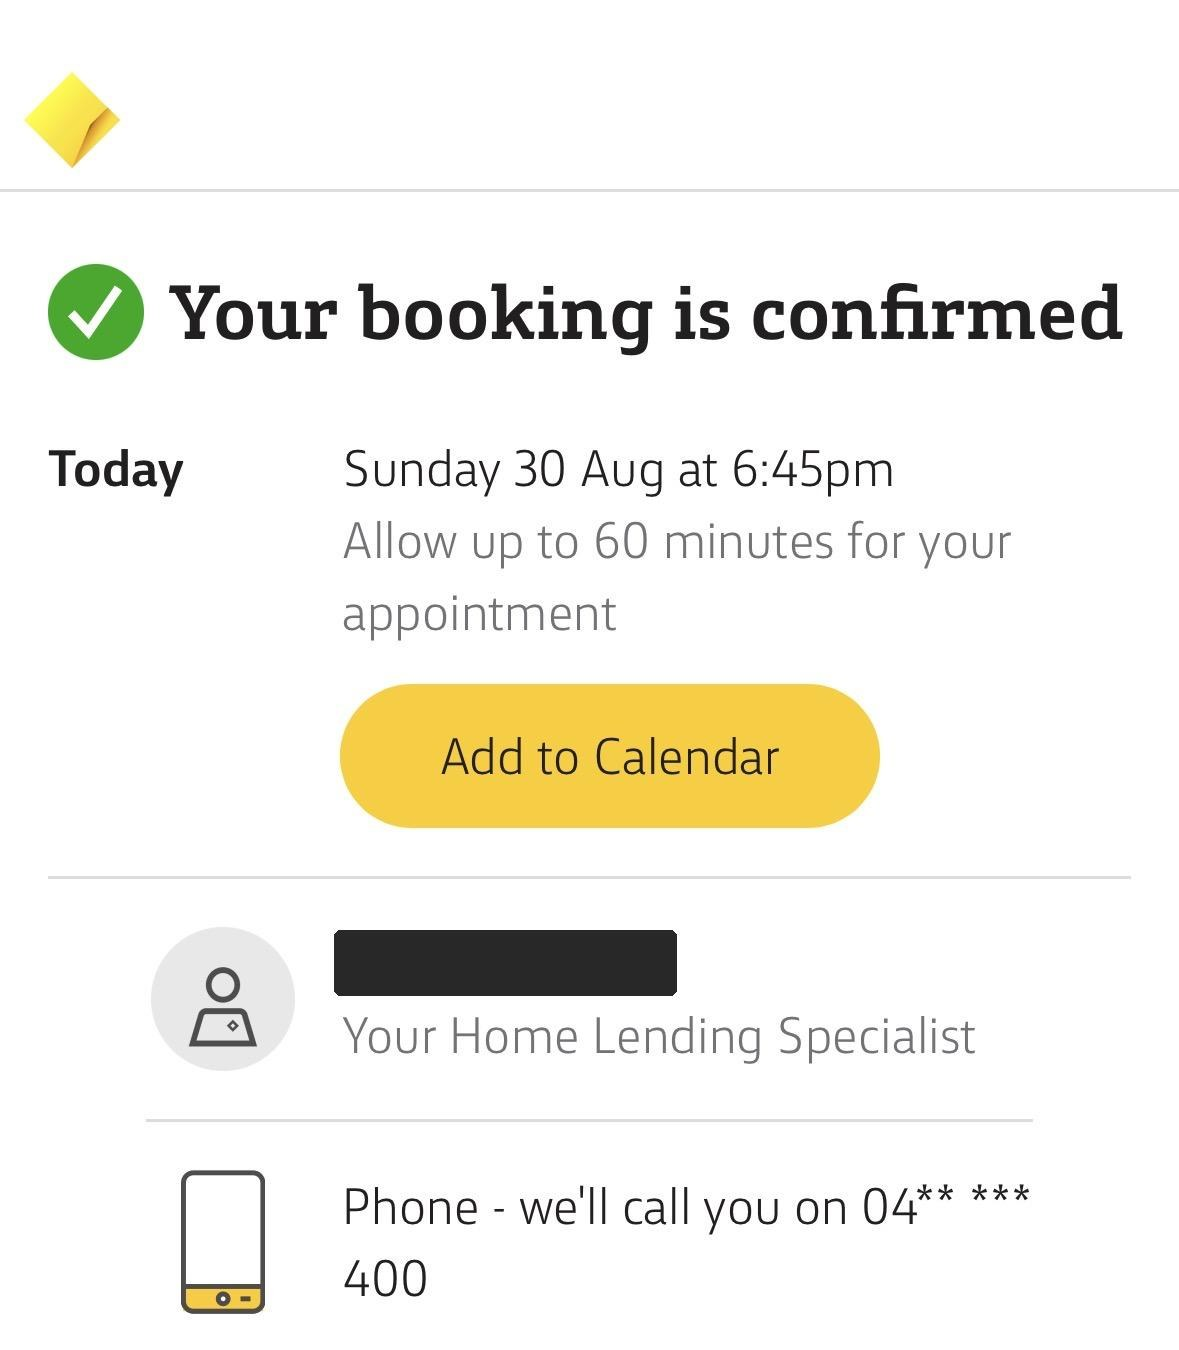
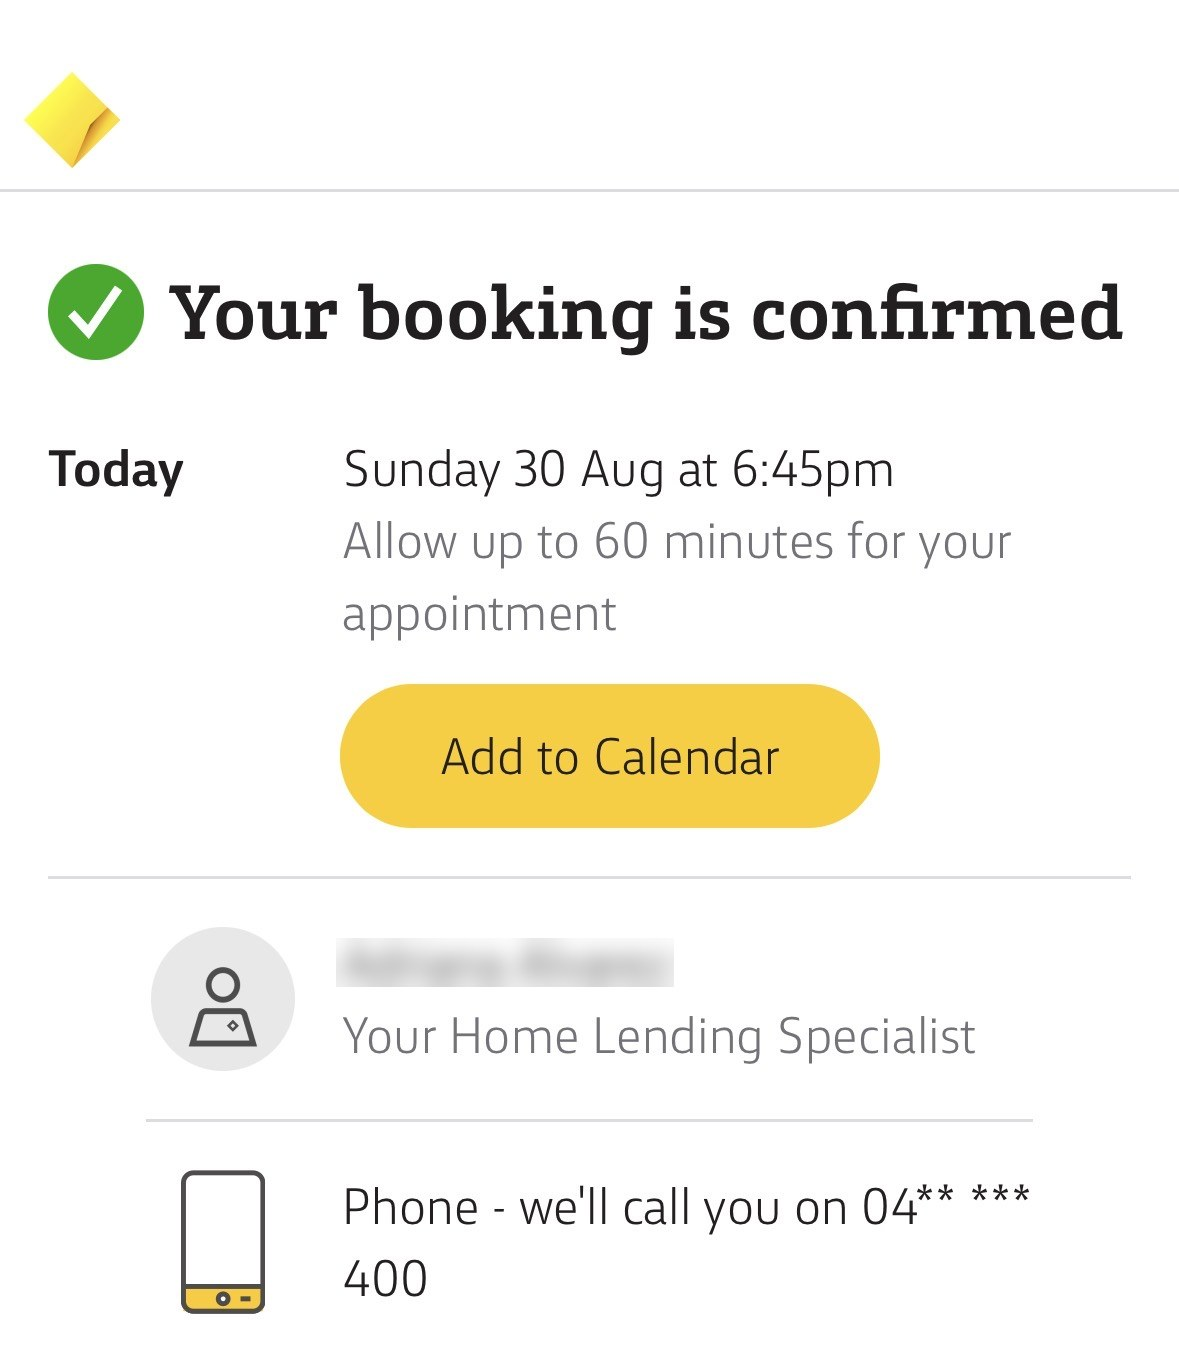
Switch specialist-name masking from a black box to a subtle blur
Replaced the solid redaction on the CommBank appointment confirmation
screenshot with a Gaussian blur applied only to the specialist's
name, the one truly essential detail to mask, leaving everything
else untouched.

Changed region(s): [[0.2748, 0.6844, 0.5802, 0.7467]]

diff --git a/mockup/experiments.html b/mockup/experiments.html
@@ -3681,8 +3681,8 @@
             <p class="spotted-intro">Real screenshots from Commonwealth Bank's live home loan appointment booking flow (commbank.com.au/digital/homeloanappointment), captured booking a real appointment slot.</p>
             <div class="spotted-grid">
               <div class="spotted-item">
-                <img src="images/commbank-home-loan-appointment-confirmed.jpg" alt="Commonwealth Bank appointment confirmation screen showing the booked time and the assigned home lending specialist, with the specialist's name redacted">
-                <p class="spotted-caption">The confirmation screen: a date, time and specialist, plus &ldquo;Add to Calendar.&rdquo; The specialist's name is redacted here for their privacy.</p>
+                <img src="images/commbank-home-loan-appointment-confirmed.jpg" alt="Commonwealth Bank appointment confirmation screen showing the booked time and the assigned home lending specialist, with the specialist's name blurred">
+                <p class="spotted-caption">The confirmation screen: a date, time and specialist, plus &ldquo;Add to Calendar.&rdquo; The specialist's name is blurred here for their privacy.</p>
               </div>
               <div class="spotted-item">
                 <img src="images/commbank-home-loan-appointment-reminder-checklist.jpg" alt="Commonwealth Bank booking confirmation What's Next section, showing a reminder call step and a checklist of documents to have ready">
